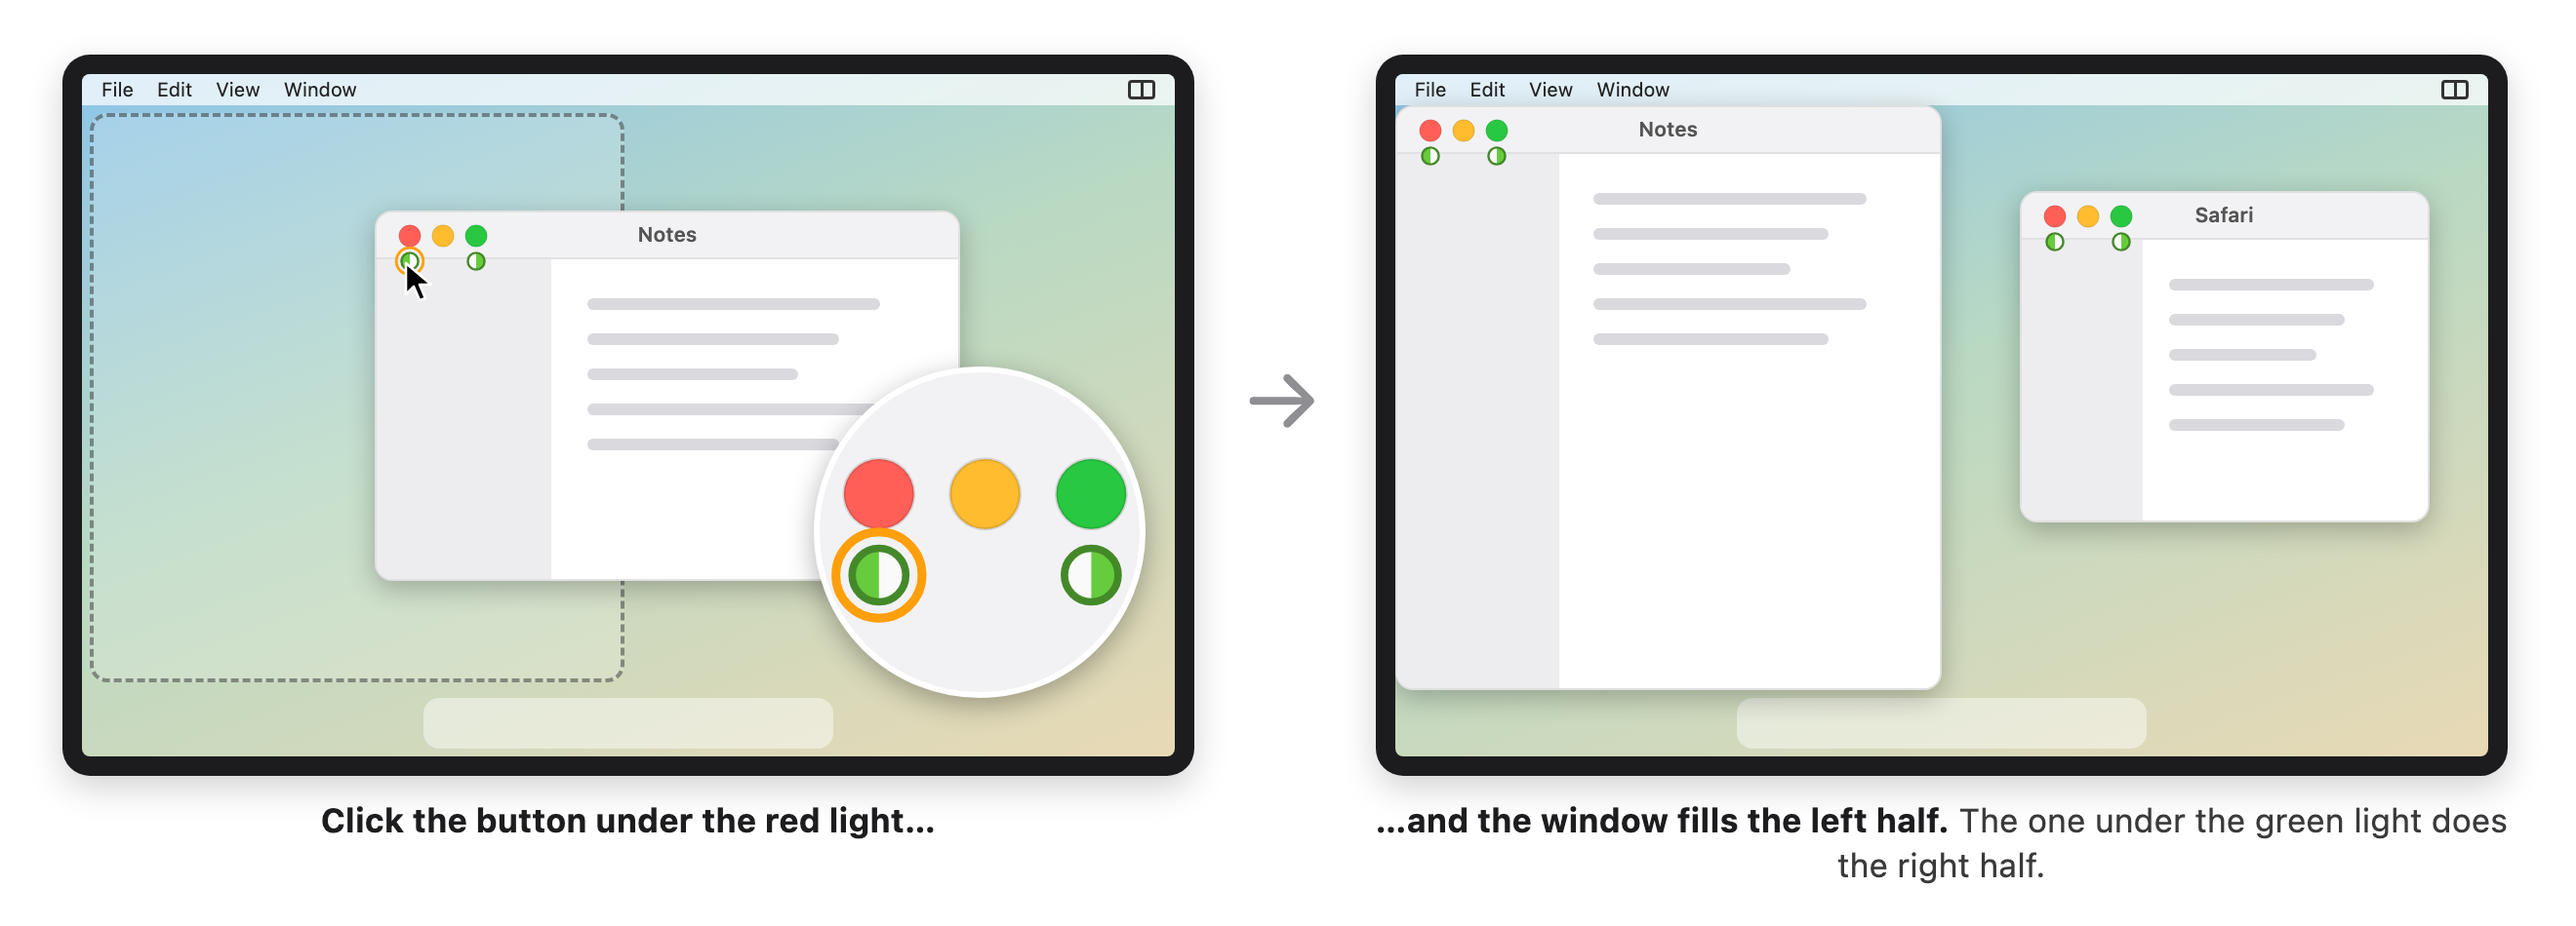
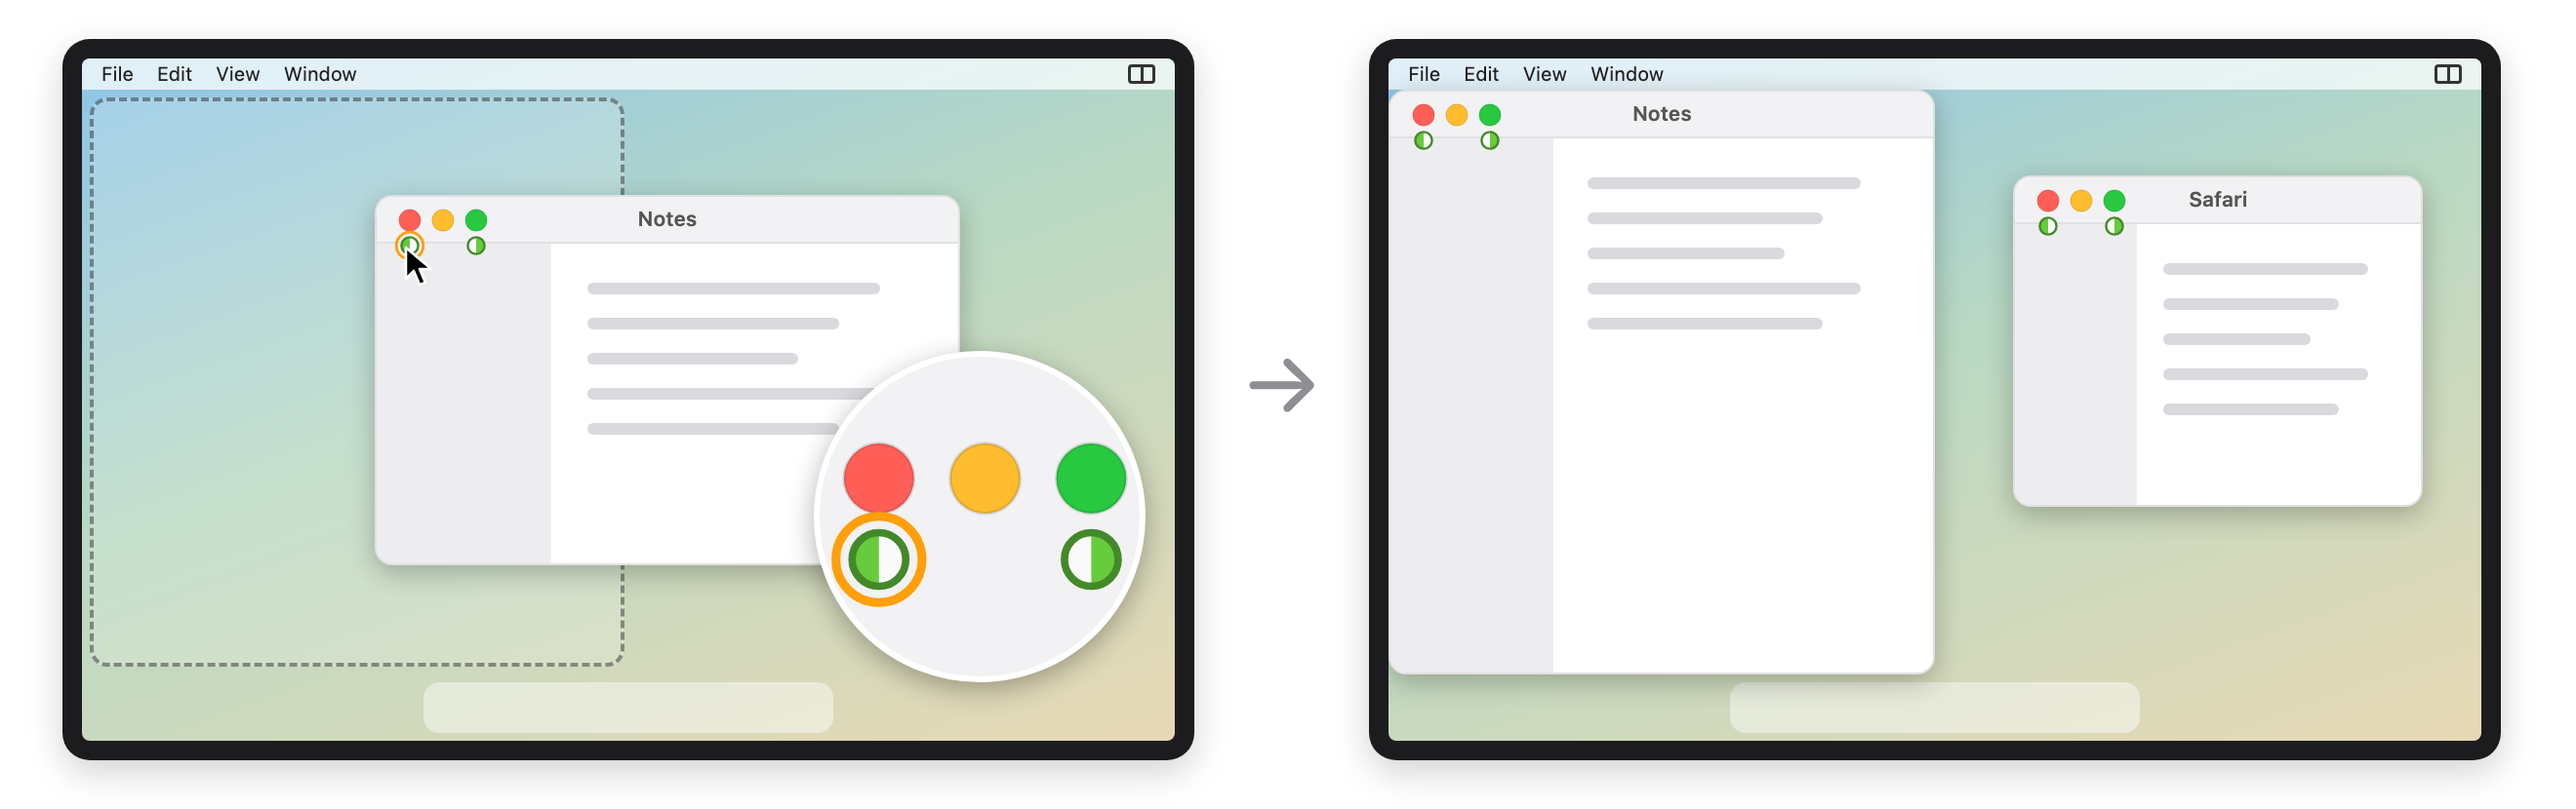
docs: captions as text under the illustrations, so they stay readable

Changed region(s): [[0.4659, 0.0301, 0.9939, 0.9639], [0.0, 0.2108, 0.4659, 0.9639], [0.0311, 0.0301, 0.4659, 0.1205]]

diff --git a/docs/images/illustrations.html b/docs/images/illustrations.html
@@ -12,6 +12,9 @@
   .col { display:flex; flex-direction:column; align-items:center; gap:12px; }
   .cap { font-size:17px; color:#3a3a3c; text-align:center; max-width:600px; line-height:1.35; }
   .cap b { color:#1d1d1f; }
+  /* Captions are written next to the images (README, blog), so they are hidden in the render. */
+  .cap { display:none; }
+  .fig { padding:20px 32px 22px; }
   .title { font-size:22px; font-weight:700; margin:0 0 18px; }
   .bezel { background:#1c1c1e; border-radius:14px; padding:10px; box-shadow:0 6px 18px rgba(0,0,0,.18); }
   .screen { position:relative; width:560px; height:350px; border-radius:4px; overflow:hidden;

diff --git a/README.md b/README.md
@@ -35,10 +35,13 @@ hovering, no menu, no keyboard shortcut to remember.
 </p>
 
 ![Clicking the button under the red light makes the window fill the left half of the display](docs/images/how-halves.png)
+<p align="center"><sub><b>Click the button under the red light, and the window fills the left half.</b> The one under the green light does the right half.</sub></p>
 
 ![Holding Option shows three buttons per window; three clicks tile three windows into thirds](docs/images/how-thirds.png)
+<p align="center"><sub><b>Hold Option and every window gets three buttons</b>, for the left, center and right thirds. Right-click any button to make thirds the default.</sub></p>
 
 ![With a second display to the right, a chevron next to the buttons moves the window there, keeping its left half](docs/images/how-two-displays.png)
+<p align="center"><sub><b>Two displays:</b> a › beside the buttons sends the window to the display on the right, still a left half. A ‹ on its left brings it back.</sub></p>
 
 Each button sits directly below one of the traffic lights, centred on it, and is drawn like a
 miniature green traffic light: half green for the part of the screen the window will take, half
@@ -139,7 +142,7 @@ runs the unit tests for the layout and placement logic.
   one panel per button.
 - `GreenTile/Actions/` the tiling action.
 - `docs/images/` the screenshots and illustrations in this README (`illustrations.html` draws the
-  mock displays; open it with `#f1`, `#f2` or `#f3` and take a 1320 × 475 screenshot at 2×).
+  mock displays; open it with `#f1`, `#f2` or `#f3` and take a 1320 × 415 screenshot at 2×).
 - `Config/` build settings, including the signing setup described above.
 - `project.yml` is the source of truth for the Xcode project. Edit it and regenerate with
   [XcodeGen](https://github.com/yonaskolb/XcodeGen) (`xcodegen generate`).
